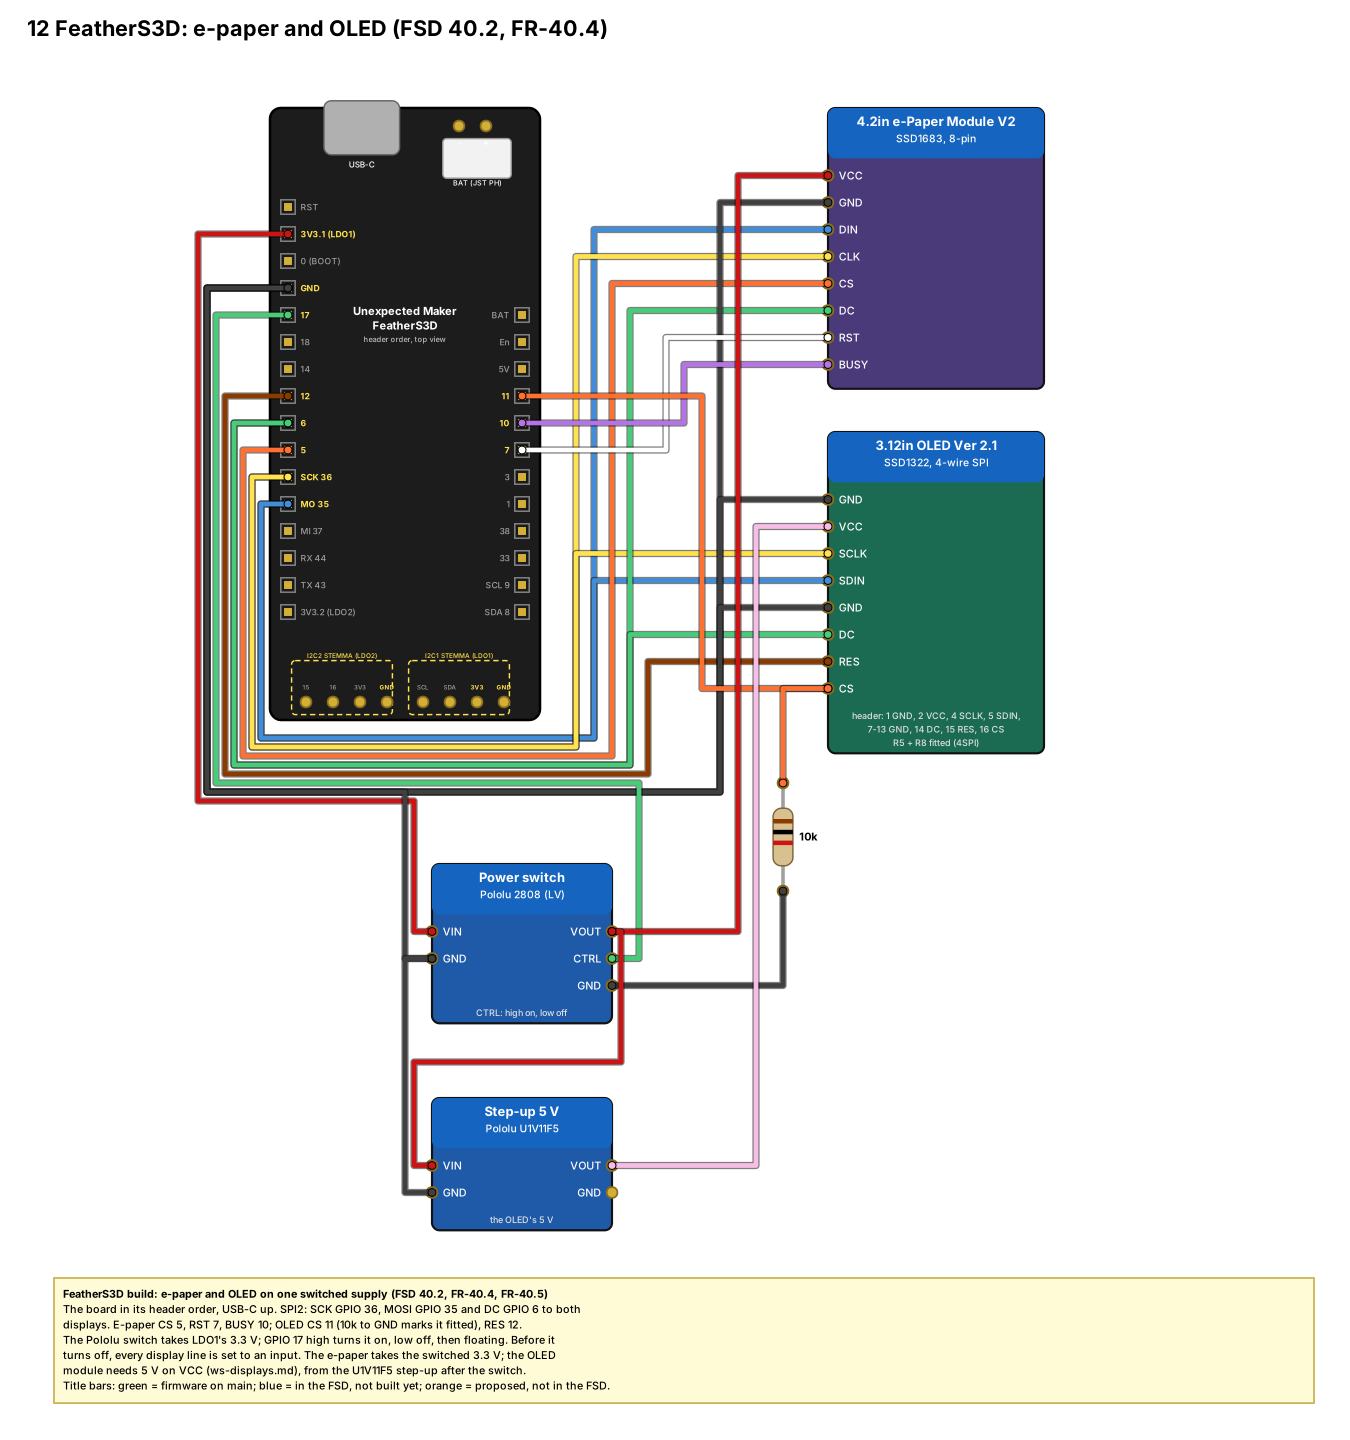
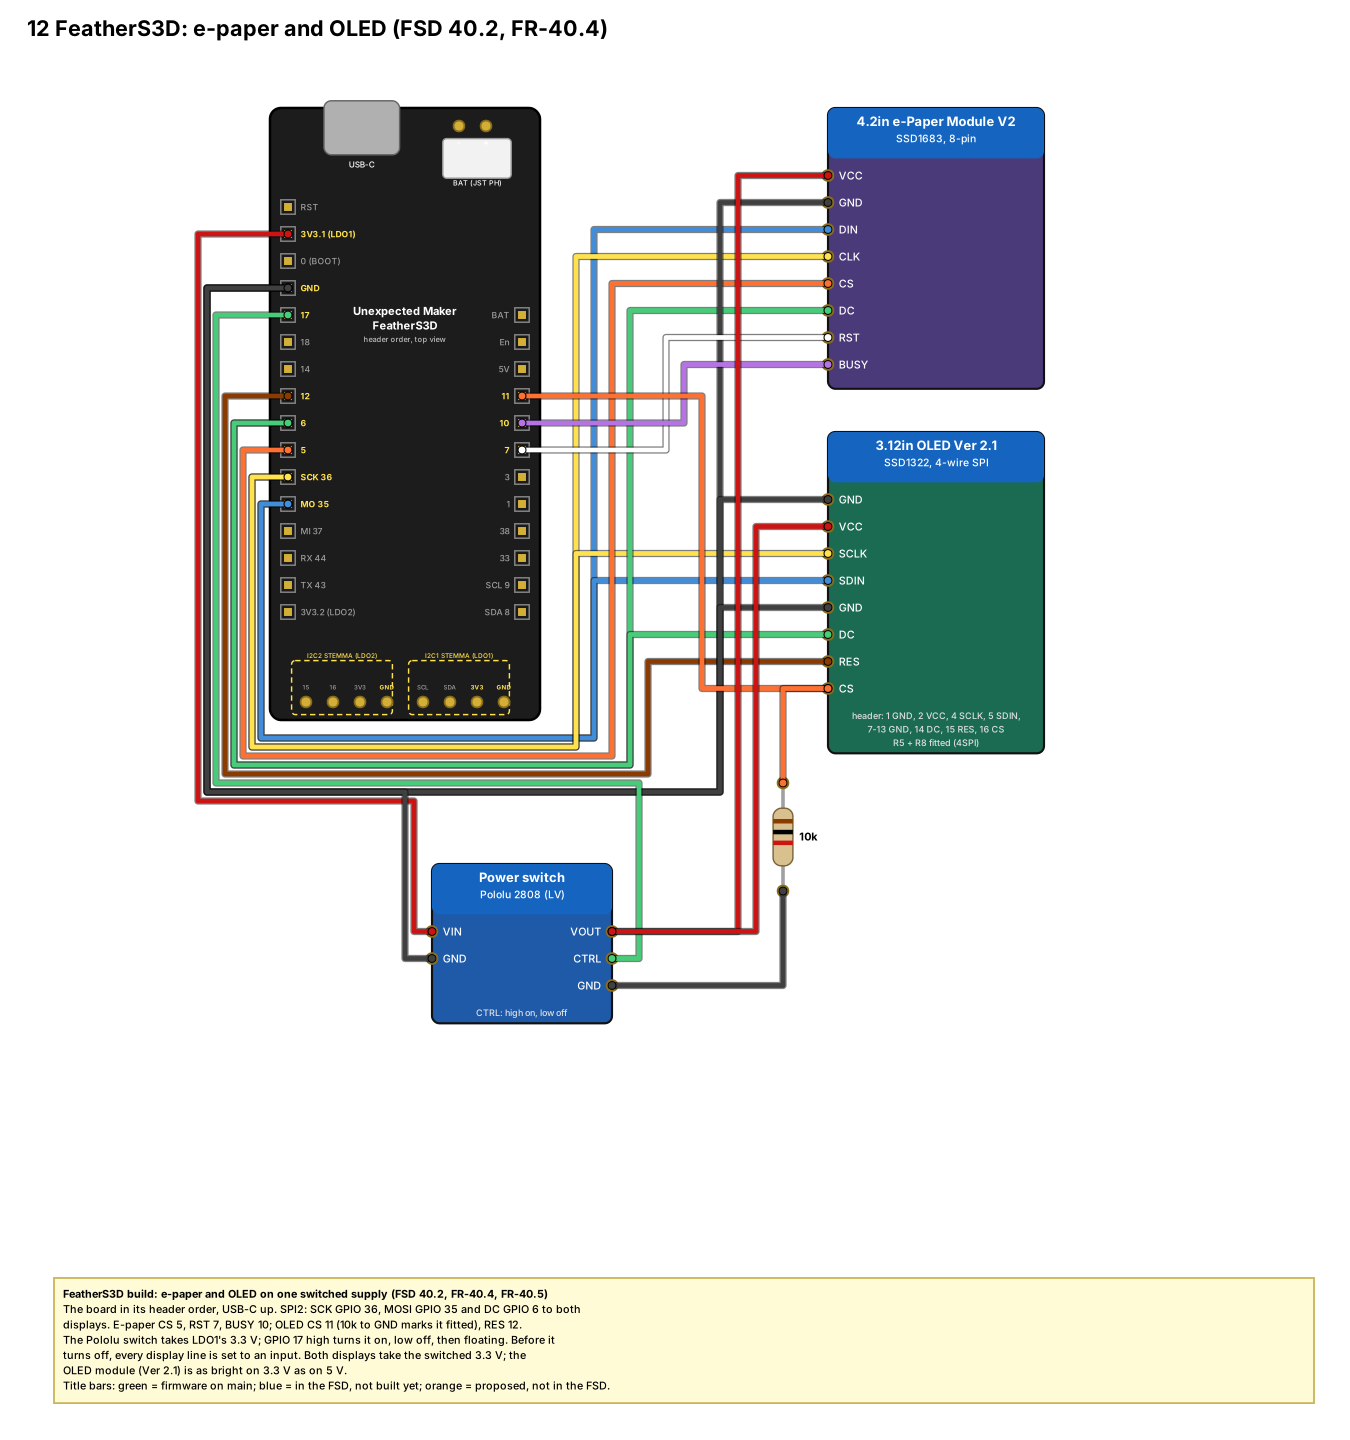
FSD 0.65.0: the FeatherS3D's OLED on the switched 3.3 V, no step-up
On the bench the 3.12" OLED module (Ver 2.1) was as bright on 3.3 V as on
5 V, on USB and on the LiPo, so the user dropped the U1V11F5 step-up: the
display switch's output feeds both displays' VCC. §40.2, feathers3-build.md,
ws-displays.md (the Waveshare board keeps its 5 V) and wiring sheet 12 follow.

Claude-Session: https://claude.ai/code/session_014onQRfbGq7RwCZyjfNkbKg

diff --git a/docs/Method/project/wiring/make_wiring.py b/docs/Method/project/wiring/make_wiring.py
@@ -1503,7 +1503,6 @@ def sheet_fs3_displays(S):
     S.place(OL, "tds3a_oled_312", 4600, 2400)
     S.place("R1", "tds3a_r10k5_v", 4250, 4300)
     S.place("U1", "fs3_power_switch", 2400, 4800)
-    S.place("U2", "fs3_boost_5v", 2400, 6100)
     # left-header lines run round the board's bottom, each in its own lane
     left = (("IO35", ((EP, "DIN"), (OL, "SDIN")), "blue", 1450, 4100, 3300),
             ("IO36", ((EP, "CLK"), (OL, "SCLK")), "yellow", 1400, 4150, 3200),
@@ -1526,17 +1525,14 @@ def sheet_fs3_displays(S):
     S.wire((B, "GND"), ("U1", "GND"), "black", ("x", 1150), ("y", 4400), ("x", 2250))
     S.wire((B, "IO17"), ("U1", "CTRL"), "green", ("x", 1200), ("y", 4350), ("x", 3550))
     S.wire(("U1", "VOUT"), (EP, "VCC"), "red", ("x", 4100))
-    # the OLED's 5 V from a step-up on the switched 3.3 V
-    S.wire(("U1", "VOUT"), ("U2", "VIN"), "red", ("x", 3450), ("y", 5900), ("x", 2300))
-    S.wire(("U1", "GND"), ("U2", "GND"), "black", ("x", 2250))
-    S.wire(("U2", "VOUT"), (OL, "VCC"), "pink", ("x", 4200))
+    S.wire(("U1", "VOUT"), (OL, "VCC"), "red", ("x", 4200))
     S.note(300, 7100, 7000, [
         "# FeatherS3D build: e-paper and OLED on one switched supply (FSD 40.2, FR-40.4, FR-40.5)",
         "The board in its header order, USB-C up. SPI2: SCK GPIO 36, MOSI GPIO 35 and DC GPIO 6 to both",
         "displays. E-paper CS 5, RST 7, BUSY 10; OLED CS 11 (10k to GND marks it fitted), RES 12.",
         "The Pololu switch takes LDO1's 3.3 V; GPIO 17 high turns it on, low off, then floating. Before it",
-        "turns off, every display line is set to an input. The e-paper takes the switched 3.3 V; the OLED",
-        "module needs 5 V on VCC (ws-displays.md), from the U1V11F5 step-up after the switch.",
+        "turns off, every display line is set to an input. Both displays take the switched 3.3 V; the",
+        "OLED module (Ver 2.1) is as bright on 3.3 V as on 5 V.",
         LEGEND,
     ])
 

diff --git a/docs/Functionality/TDisplay-S3-Webserver-FSD.md b/docs/Functionality/TDisplay-S3-Webserver-FSD.md
@@ -4578,7 +4578,7 @@ program confirms the chip, both buses, LDO2 and each header pin on the board.
 | Charging | Two cells, kept separate: the FeatherS3's LiPo and the Notecarrier-X's LiPo, each charged by its own board from that board's USB-C port. In the field, one 5 V source of at least 3 A (a charger, a USB battery pack or a solar controller with a USB output) feeds both USB-C ports through a power-only Y cable. On the bench, the FeatherS3's USB-C carries the bench's data cable, which also charges it, and the Notecarrier-X has its own power-only cable from the 5 V source. Nothing is wired to either board's header for charging (C-40.11) | [user] |
 | Always-on bus | The STEMMA QT socket marked I2C1, I2C controller 0, SDA GPIO 8, SCL GPIO 9, 100 kHz, powered from LDO1: the board's MAX17048 (0x36), the RV-8803 (0x32, §39) and the Notecarrier-X (§33, its own LiPo, its red 3.3 V wire unconnected) | [user]; pins and the gauge [derived from the board] |
 | Switched bus | The STEMMA QT socket marked I2C2, I2C controller 1, SDA GPIO 16, SCL GPIO 15 (the order of the board's Arduino and CircuitPython definitions), 100 kHz, powered from LDO2: the BME280 (0x76), and through the analog board's ISO1540 the isolated ADS1115 (0x49) | [user]; the pin order [user] |
-| Display supply | A Pololu Mini Pushbutton Power Switch LV (#2808), input from LDO1's 3.3 V; its CTRL from GPIO 17: high on, low off, then left floating, which the switch's latch holds. Its output feeds the e-paper's VCC directly and the OLED's VCC through a 5 V step-up (Pololu U1V11F5), since the OLED module's own regulator leaves the panel dark on 3.3 V (`docs/Method/project/ws-displays.md`) | [user]; GPIO 17 [user]; the step-up [user] |
+| Display supply | A Pololu Mini Pushbutton Power Switch LV (#2808), input from LDO1's 3.3 V; its CTRL from GPIO 17: high on, low off, then left floating, which the switch's latch holds. Its output feeds the e-paper's and the OLED's VCC directly: the OLED module (Ver 2.1) is as bright on 3.3 V as on 5 V, on USB and on the LiPo (Phase 21) | [user]; GPIO 17 [user]; the OLED on 3.3 V [user] |
 | Display bus | SPI2, SCK GPIO 36, MOSI GPIO 35, shared by both displays | [user] |
 | E-paper | Waveshare 4.2" e-Paper Module (V2), SSD1683, as §35.2: CS GPIO 5, DC GPIO 6, RST GPIO 7, BUSY GPIO 10 (internal pull-down, FR-35.25) | [user]; pins [user] |
 | OLED | 3.12" 256 × 64 SSD1322 module, as §35.2: CS GPIO 11 (10 kΩ to GND on its lead, FR-35.25), RES GPIO 12, DC shared with the e-paper's GPIO 6 | [user]; pins [user] |
@@ -5334,7 +5334,7 @@ they apply in changed (SHOWING → LCD_OK, §5.3's display region).
 
 ```yaml
 document_status: draft
-fsd_version: 0.64.2
+fsd_version: 0.65.0
 repository: https://github.com/solchjg/tdisplay-s3-amoled
 baseline_commit: (the commit introducing this version)
 applicable_firmware_version: none yet
@@ -5342,7 +5342,7 @@ author: solchjg
 reviewers: []
 approval_status: approved by the user except the open decisions
 created: 2026-10-23
-last_updated: 2026-11-14
+last_updated: 2026-11-16
 change_history:
   - 0.0.0 2026-10-23 stub, project created from the tdisplay-s3-hello base
   - "0.1.0 2026-10-23 initial definition: station + portal, status page/API, HTTP OTA with rollback, watchdog, factory reset, UDP log, mDNS"
@@ -5444,6 +5444,7 @@ change_history:
   - "0.64.0 2026-11-14 Phase 21 on the FeatherS3D (SLOT11): no PSRAM in its package (eFuse), so §40.2's MCU row says GPIO 33 – 37 are free; every header pin of §40.2 toggles where the pinout card puts it, so R-44 is closed"
   - "0.64.1 2026-11-14 the user's note from the board: both STEMMA QT sockets are vertical, marked I2C1 (always on) and I2C2 (switched); §40.2 names them so"
   - "0.64.2 2026-11-14 NFR-40.1: the sleep currents measured so far (board alone 46 µA; both buses with the RV-8803, Notecarrier-X, BME280 and ADS1115: 35 µA with the probe, 36 µA with the build), recorded without a limit until the displays and field boards are measured"
+  - "0.65.0 2026-11-16 approved by the user: §40.2's display supply feeds the OLED's VCC from the switch's 3.3 V with no step-up, since the module was as bright on 3.3 V as on 5 V, on USB and on the LiPo (Phase 21)"
 superseded_requirements: [FR-5.1, FR-5.2, FR-5.3, FR-5.4, FR-5.5, FR-5.6, FR-5.7, FR-5.8, FR-5.9, FR-5.10, FR-7.1, FR-7.2, FR-7.3, FR-7.4, FR-9.1, C-10.4, FR-15.2, FR-15.3, FR-15.4, FR-15.6, FR-15.7, FR-14.1, FR-14.2, FR-5.22, FR-6.5, FR-6.6, FR-15.5, FR-18.1, FR-7.15, FR-6.9, FR-6.10, FR-6.11, FR-7.11, FR-23.6, FR-23.11, FR-23.8, FR-24.4, FR-21.10, FR-24.5, FR-24.10, FR-18.2, FR-25.4, FR-25.7, FR-23.2, FR-9.2, FR-25.2, FR-7.33, C-10.6, FR-23.14, FR-6.2, FR-6.12, FR-23.13, FR-27.2, C-10.9, FR-24.12, FR-26.14, NFR-30.2, FR-36.2]
 open_decisions:
   - "§42 Remote Session, the whole section: the Notehub session over the other options, `session_at`/`session_h` and `s_session`/`s_hours`, the requests, 1-minute syncs and 5 s polling, 64 KB history chunks to the `hist` route and that route's endpoint (a file store the user chooses), the 10-minute connect limit, the 3.50 V cut-off, NFR-42.1 and NFR-42.2"

diff --git a/docs/Method/project/feathers3-build.md b/docs/Method/project/feathers3-build.md
@@ -19,7 +19,7 @@ and the LiPo connector on the top edge.
 | Sheet | Draws |
 |-------|-------|
 | [11 Power, buses, key and bench lines](wiring/wiring-11-fs3-core.png) ([.fzz](wiring/wiring-11-fs3-core.fzz)) | The LiPo; the always-on bus (RV-8803, Notecarrier-X); the switched bus (BME280, the analog board's isolator); the user key; the bench's RST and GPIO 0 |
-| [12 E-paper and OLED](wiring/wiring-12-fs3-displays.png) ([.fzz](wiring/wiring-12-fs3-displays.fzz)) | SPI2 to both displays, the Pololu #2808 display supply, the OLED's 5 V step-up |
+| [12 E-paper and OLED](wiring/wiring-12-fs3-displays.png) ([.fzz](wiring/wiring-12-fs3-displays.fzz)) | SPI2 to both displays, the Pololu #2808 display supply feeding both |
 | [13 Analog board](wiring/wiring-13-fs3-analog.png) ([.fzz](wiring/wiring-13-fs3-analog.fzz)) | The isolated 24 V, the 4-20 mA loop channel (as sheet 2), the 0 – 5 V probe channel on A2 |
 | [14 Serial port](wiring/wiring-14-fs3-serial.png) ([.fzz](wiring/wiring-14-fs3-serial.fzz)) | The isolated 5 V, the one-channel isolator, the MaxBotix MB7569-100 with its ranging pin tied high |
 | [15 Field entry](wiring/wiring-15-fs3-entry.png) ([.fzz](wiring/wiring-15-fs3-entry.fzz)) | One field cable through its surge protector to an isolated board, the earth rod |
@@ -56,9 +56,10 @@ and the LiPo connector on the top edge.
 - **GPIO 13.** Both definitions name it the board's blue LED, so no field line
   uses it: the MB7569 ranges continuously with its pin 4 high, and its supply is
   switched off between readings anyway.
-- **The OLED's 5 V.** The 3.12" module's own regulator leaves the panel dark on
-  3.3 V ([ws-displays.md](ws-displays.md#supply)), so a U1V11F5 step-up after
-  the display switch feeds its VCC; it is unpowered whenever the switch is off.
+- **The OLED on 3.3 V.** The 3.12" module (Ver 2.1) is as bright on 3.3 V as on
+  5 V, on USB and on the LiPo, so the display switch's output feeds its VCC
+  directly, with no step-up; it is unpowered whenever the switch is off. Its
+  20 to 100 mA comes from LDO1 while a window runs.
 - **GPIO 33.** A header pin (D5) in both definitions; the FeatherS3D has no
   PSRAM in its package, so GPIO 33 – 37 are free.
 

diff --git a/docs/Method/project/wiring/wiring.md b/docs/Method/project/wiring/wiring.md
@@ -38,7 +38,7 @@ FSD but not built yet, and orange means proposed and not in the FSD.
 | [9 Blues build, sensor bus on two Qwiic stars](wiring-9-blues-sensor-bus.png) ([.fzz](wiring-9-blues-sensor-bus.fzz)) | BME280, Notecarrier-X and RV-8803 RTC (§39) on main; the water ADS1115 on Qwiic, on the second star, proposed (its probe side is sheet 3) | Qwiic GND, 3V3, GPIO 43 SDA, GPIO 44 SCL to the star |
 | [10 Outdoor test node](wiring-10-outdoor-node.png) ([.fzz](wiring-10-outdoor-node.fzz)) | Test rig, not product wiring ([outdoor-node.md](../outdoor-node.md), [build guide](../outdoor-node-build.md)) | RESET and BOOT key pads (switched side), GND, USB-C |
 | [11 FeatherS3: power, buses, key, bench lines](wiring-11-fs3-core.png) ([.fzz](wiring-11-fs3-core.fzz)) | Specified (FSD §40.2), details in [feathers3-build.md](../feathers3-build.md); pins in header order | RST, GPIO 0, GPIO 1 key, LiPo; horizontal STEMMA QT (GPIO 8/9, LDO1): RV-8803, Notecarrier-X; vertical (GPIO 16 SDA, 15 SCL, LDO2): BME280, analog isolator |
-| [12 FeatherS3: e-paper and OLED](wiring-12-fs3-displays.png) ([.fzz](wiring-12-fs3-displays.fzz)) | Specified (FSD §40.2, FR-40.4), the OLED's 5 V from a step-up | SCK 36, MOSI 35, DC 6; e-paper CS 5, RST 7, BUSY 10; OLED CS 11, RES 12; GPIO 17 display switch; 3V3 (LDO1), GND |
+| [12 FeatherS3: e-paper and OLED](wiring-12-fs3-displays.png) ([.fzz](wiring-12-fs3-displays.fzz)) | Specified (FSD §40.2, FR-40.4), both on the switched 3.3 V | SCK 36, MOSI 35, DC 6; e-paper CS 5, RST 7, BUSY 10; OLED CS 11, RES 12; GPIO 17 display switch; 3V3 (LDO1), GND |
 | [13 FeatherS3: analog board](wiring-13-fs3-analog.png) ([.fzz](wiring-13-fs3-analog.fzz)) | Specified (FSD §29, §40.2, FR-40.9) | GPIO 18 supply enable, VBAT; isolator side 1 on the vertical STEMMA QT |
 | [14 FeatherS3: isolated serial port, MaxBotix](wiring-14-fs3-serial.png) ([.fzz](wiring-14-fs3-serial.fzz)) | Specified (FSD §40.2, FR-40.12) | GPIO 33 supply enable, GPIO 14 RX, VBAT, GND |
 | [15 FeatherS3: field entry](wiring-15-fs3-entry.png) ([.fzz](wiring-15-fs3-entry.fzz)) | Specified (FSD C-40.5 – C-40.8) | None: field side only |

diff --git a/docs/Method/project/ws-displays.md b/docs/Method/project/ws-displays.md
@@ -140,8 +140,9 @@ join the I2C buses.
 
 ### Supply
 
-The module's VCC comes from the board's 5 V. Its own regulator (U1) has no
-headroom with 3.3 V on VCC, and the panel stays dark there. The logic lines stay
+On this board the module's VCC comes from the board's 5 V. On the FeatherS3D
+the same module (Ver 2.1) runs from the display switch's 3.3 V, as bright as on
+5 V ([feathers3-build.md](feathers3-build.md)). The logic lines stay
 at 3.3 V. The OLED draws about 20 to 100 mA, depending on
 how much of the screen is lit. The e-paper draws a few mA, and only while it
 refreshes.
